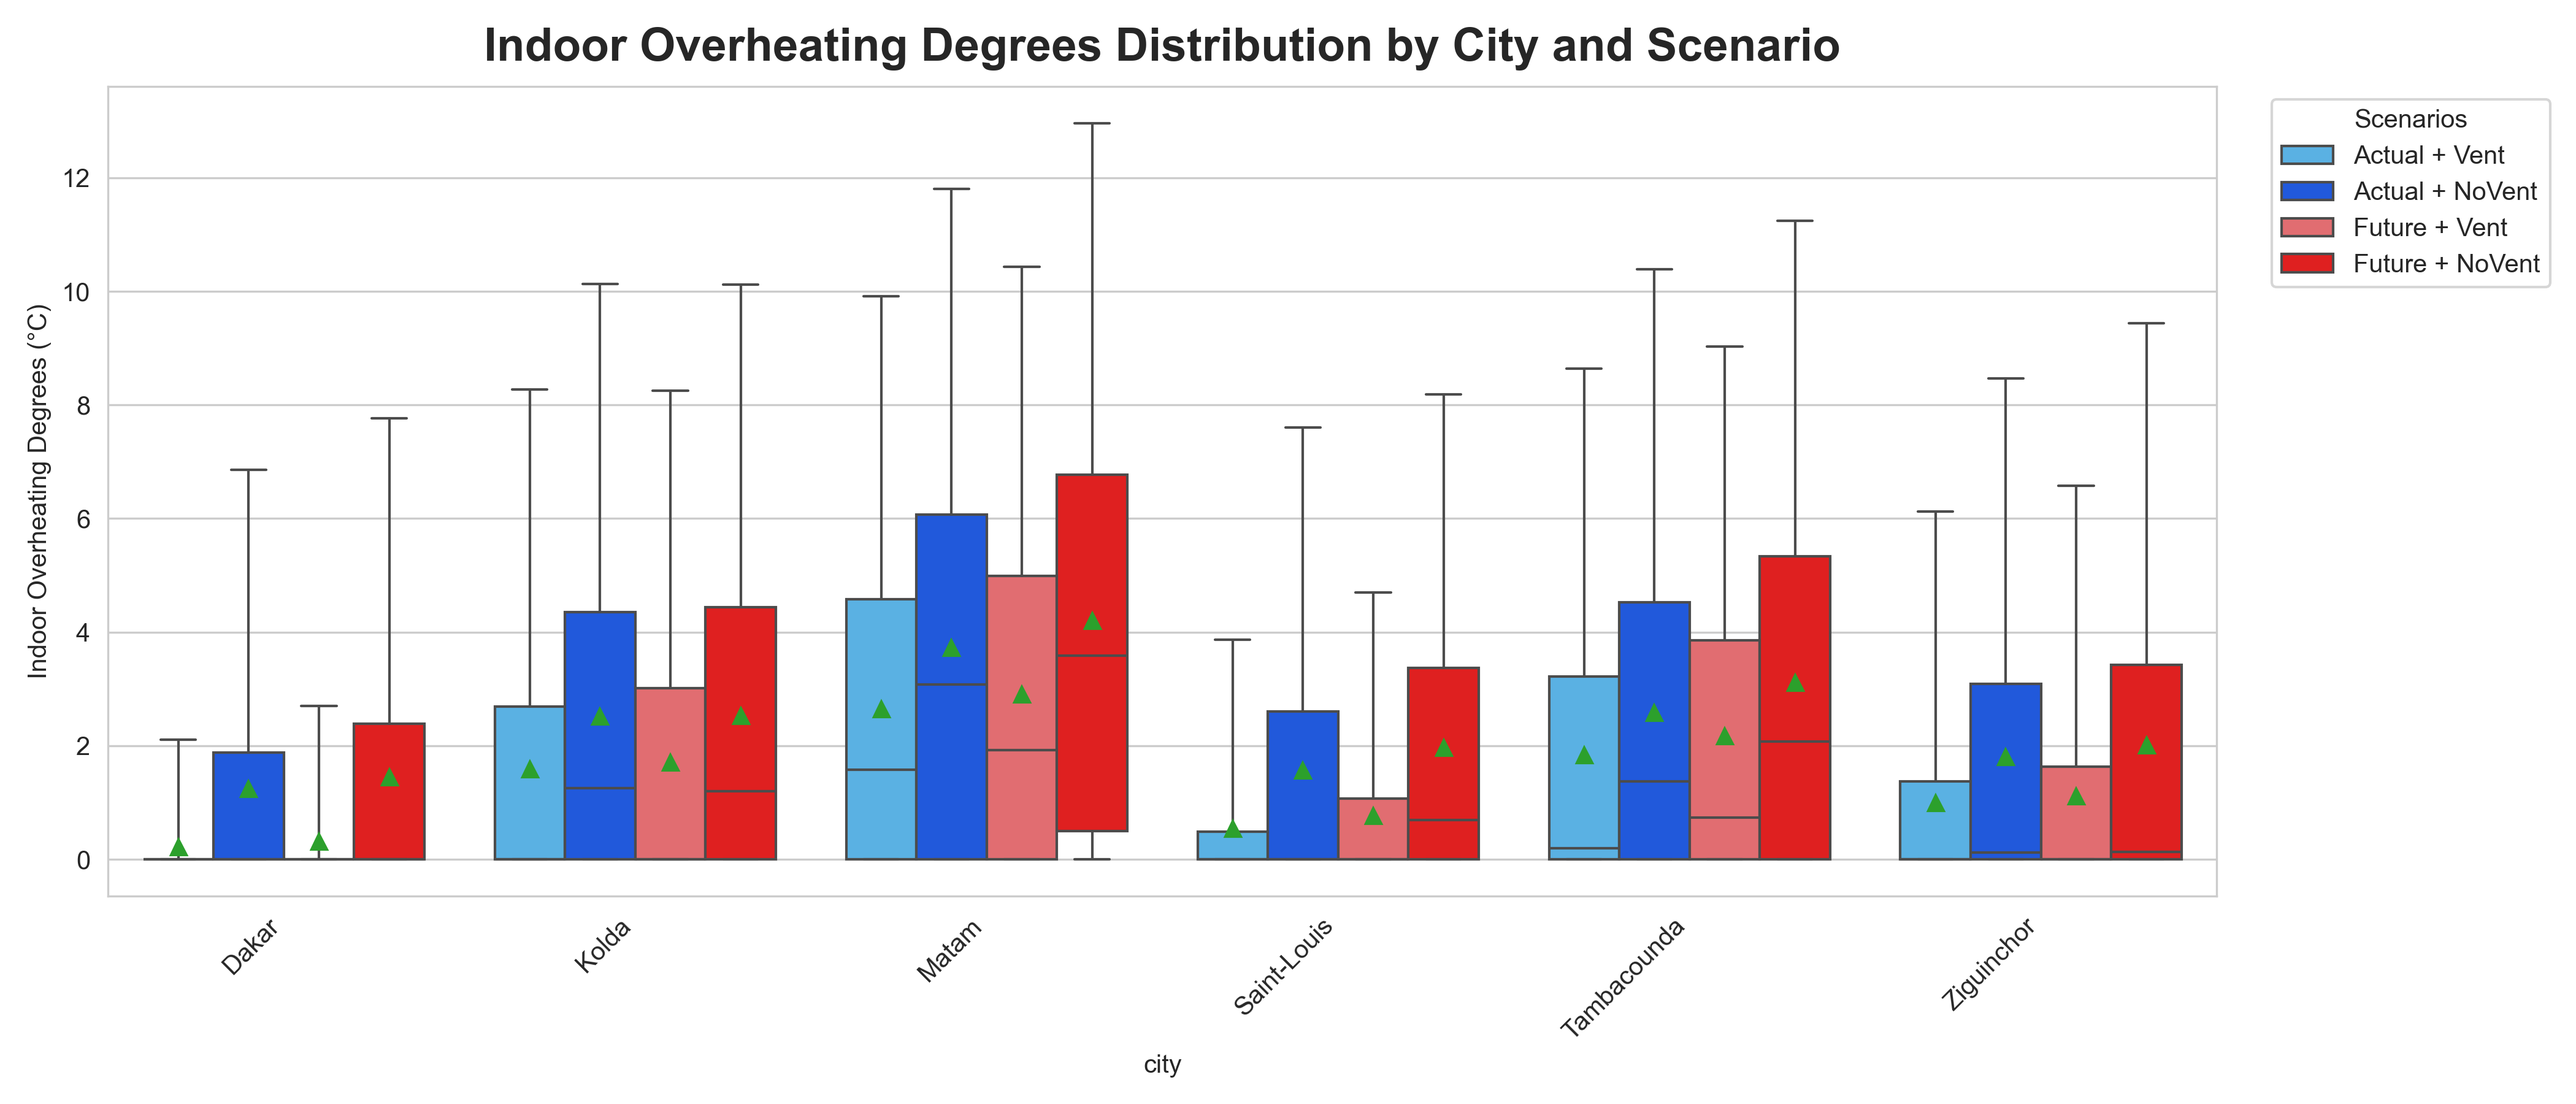
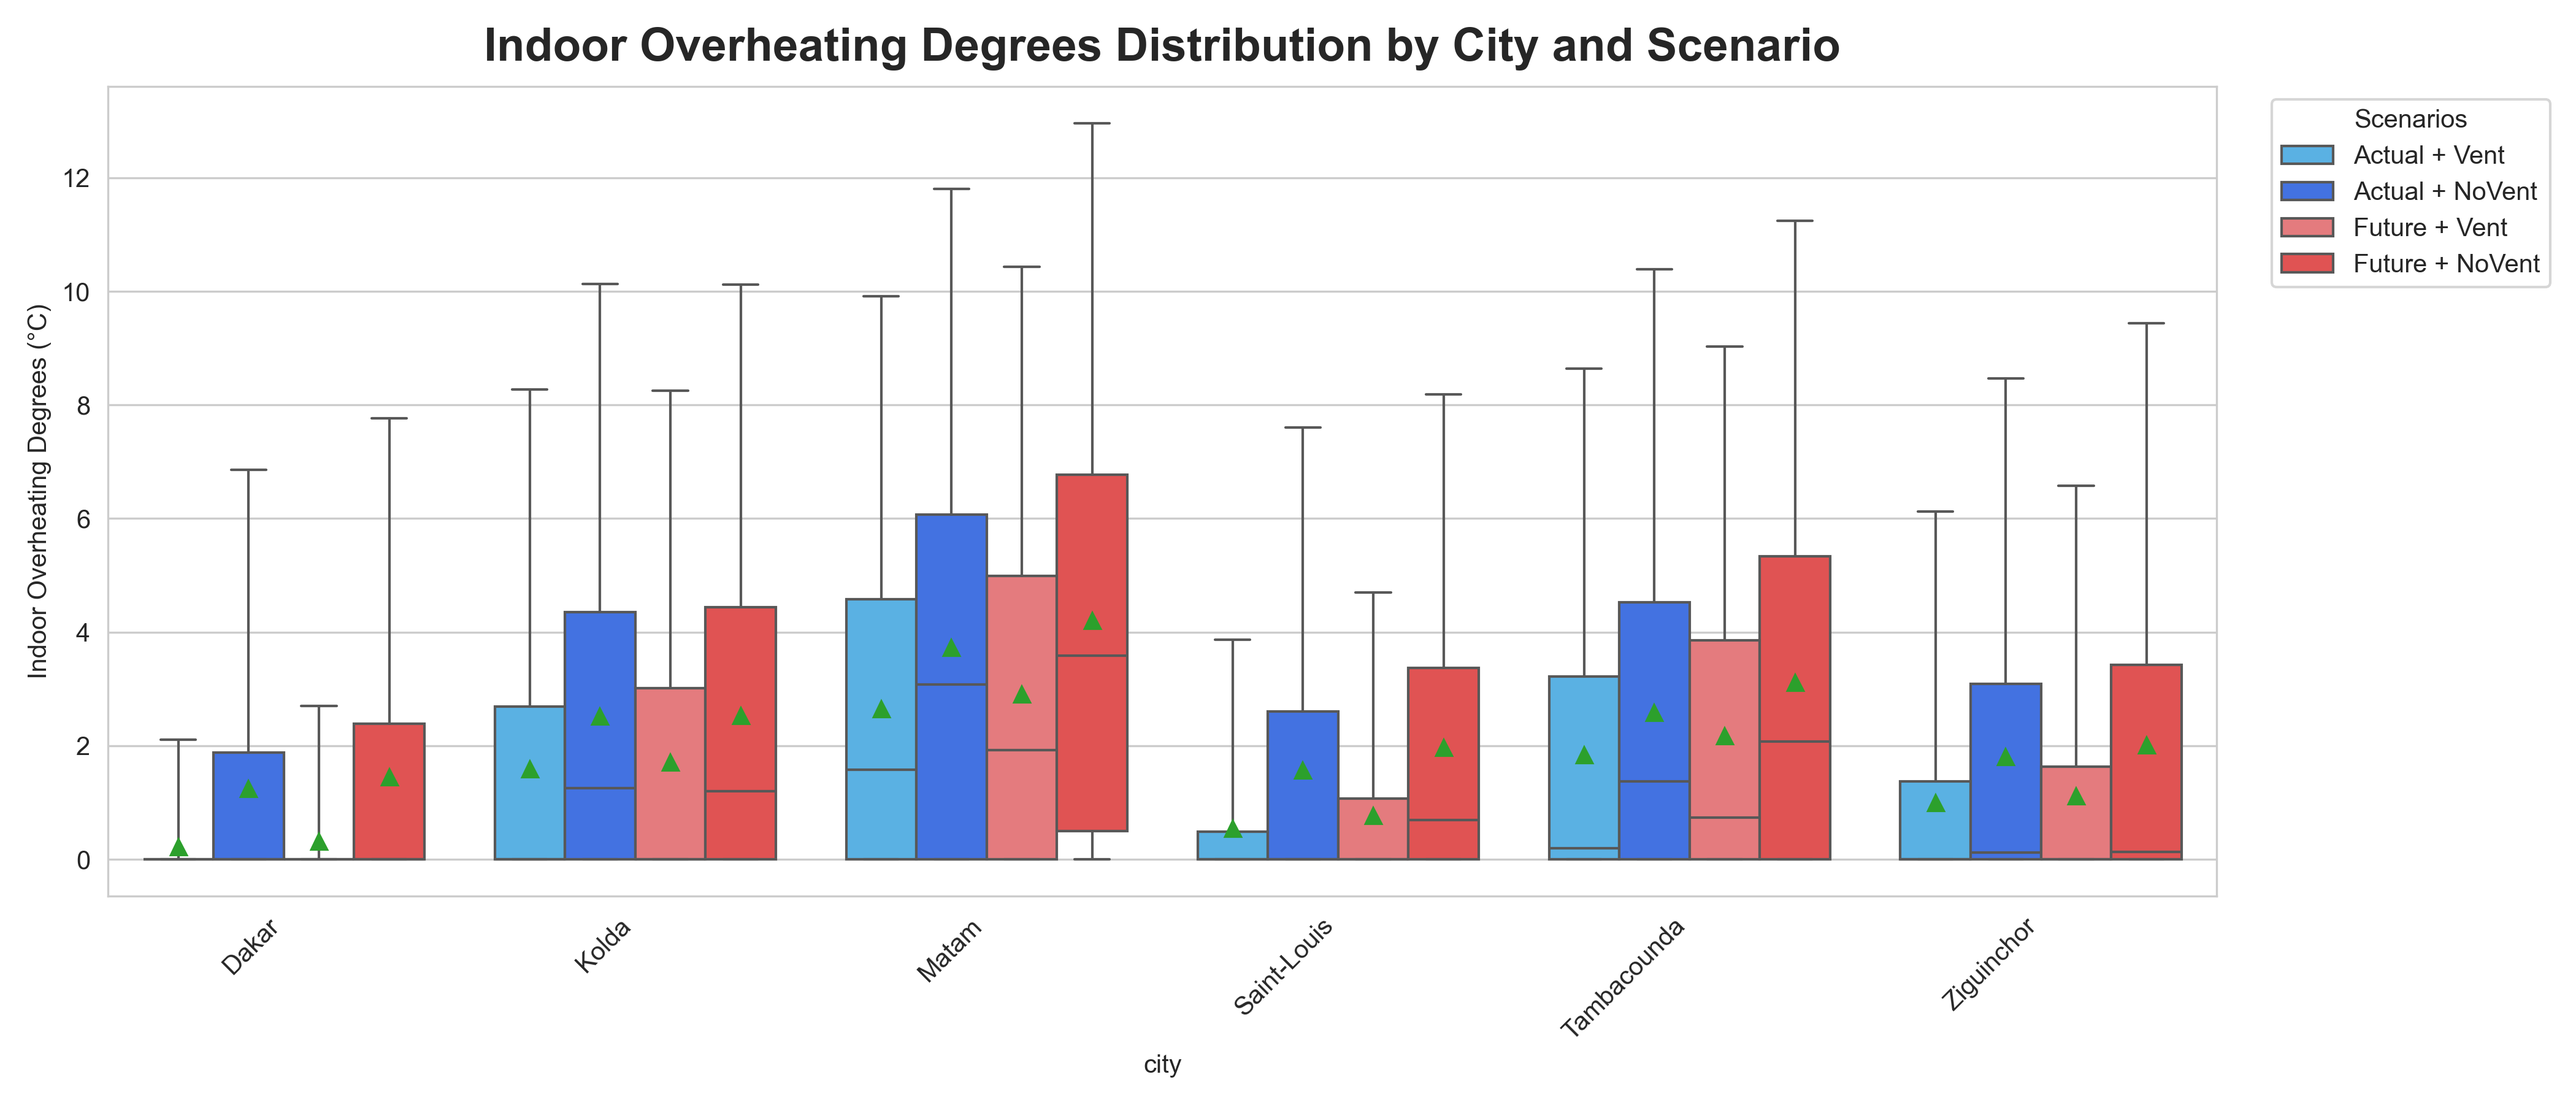
added some changes

diff --git a/simul/compare_energy.py b/simul/compare_energy.py
@@ -55,16 +55,16 @@ def plot_energy_histogram(labels, actual_kwh, future_kwh, out_path=None):
     x = np.arange(len(labels))
     width = 0.35
 
-    fig, ax = plt.subplots(figsize=(max(6, len(labels) * 0.8), 5))
-    bars_a = ax.bar(x - width/2, actual_kwh, width, label='Actual', color='C0', alpha=0.9)
-    bars_f = ax.bar(x + width/2, future_kwh, width, label='Future', color='#d62728', alpha=0.9)
+    fig, ax = plt.subplots(figsize=(max(12, len(labels) * 0.9), 6))
+    bars_a = ax.bar(x - width/2, actual_kwh, width, label='Actual', color="#0057f8", alpha=0.9)
+    bars_f = ax.bar(x + width/2, future_kwh, width, label='Future', color="#f60202", alpha=0.9)
 
     # Display axis and labels in thousands (e.g., 140 represents 140,000 kWh)
-    ax.set_ylabel('Total energy (kWh/m²/an)', font = 'Century Gothic', fontsize=12)
+    ax.set_ylabel('Total energy (kWh/m²/an)', font = 'Serif', fontsize=12)
     ax.yaxis.set_major_formatter(mticker.FuncFormatter(lambda x, p: f"{x/1000:,.0f}"))
-    ax.set_title('Total Annual energy consumption', font = 'Century Gothic', fontsize=12)
+    ax.set_title('Total Annual energy consumption', font = 'Serif', fontsize=18, pad=10, fontweight='bold')
     ax.set_xticks(x)
-    ax.set_xticklabels(labels, rotation=45, ha='right', font = 'Century Gothic', fontsize=12)
+    ax.set_xticklabels(labels, rotation=45, ha='right', font = 'Serif', fontsize=12)
     ax.legend()
 
     # annotate bars with kWh values on top

diff --git a/simul/adaptive_overheating_degrees.py b/simul/adaptive_overheating_degrees.py
@@ -100,7 +100,7 @@ try:
     import seaborn as sns
     sns.set_style('whitegrid')
     fig, ax = plt.subplots(figsize=(14, 6))
-    palette = {'Actual + Vent': "#43B7FAFF", 'Actual + NoVent': "#024CFAFF", 'Future + Vent': "#F45A5FFF", 'Future + NoVent': "#FF0000FF"}
+    palette = {'Actual + Vent': "#43B7FAFF", 'Actual + NoVent': "#2968FBFF", 'Future + Vent': "#F6696EFF", 'Future + NoVent': "#F83B3BFF"}
     # use whis to set whiskers at 2.5th and 97.5th percentiles
     # hide fliers (outliers) beyond whiskers
     sns.boxplot(x='city', y='overheating', hue='scenario', data=df_long,
